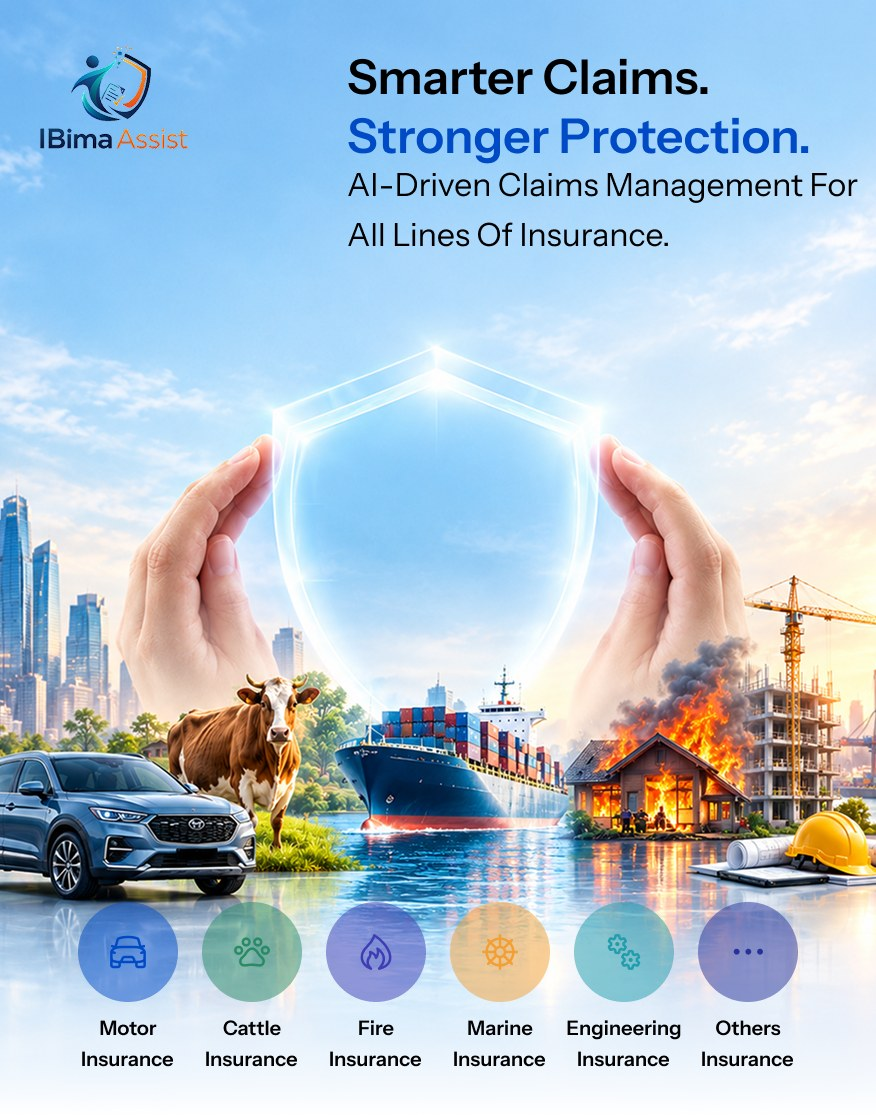
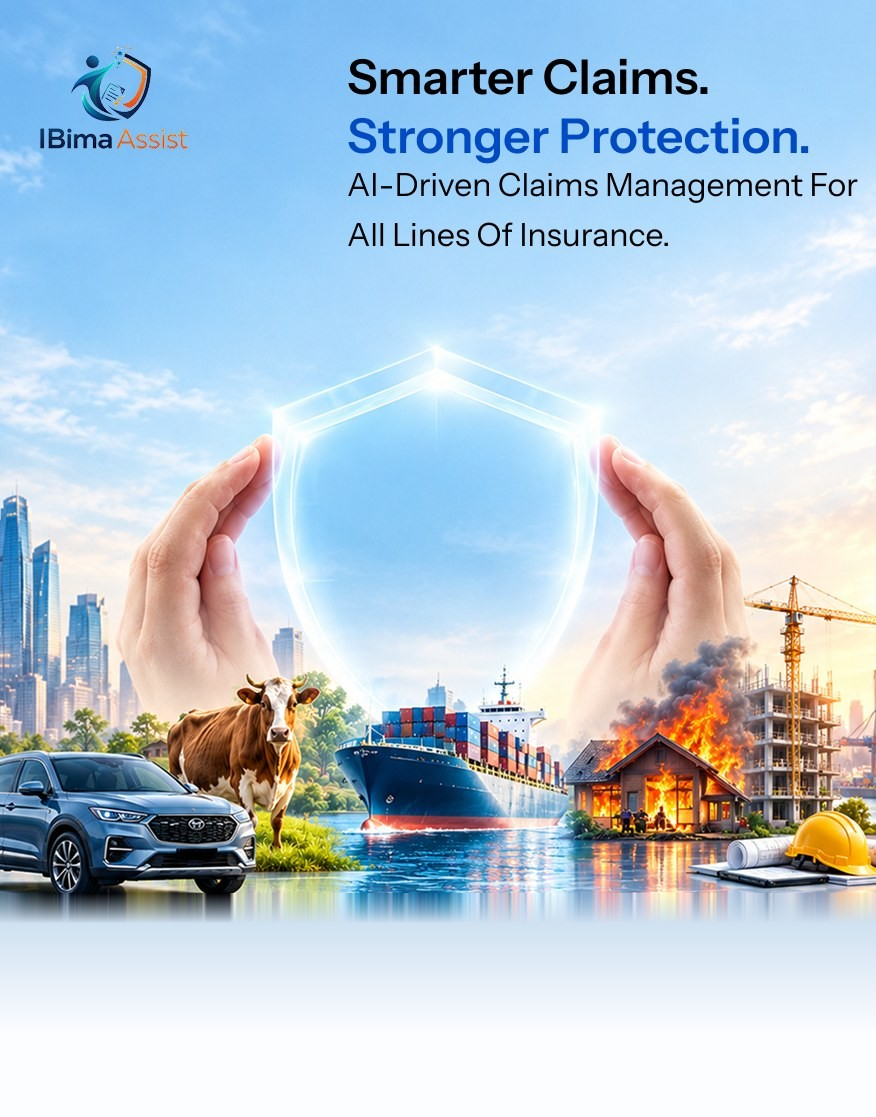
Login: coloured shield insurance badges on hero, filled inputs to match reference

Changed region(s): [[0.3699, 0.7914, 1.0, 0.974], [0.0, 0.7914, 0.339, 0.974]]

diff --git a/src/pages/auth/LoginPage.jsx b/src/pages/auth/LoginPage.jsx
@@ -1,7 +1,7 @@
 import React, { useState } from 'react';
 import { useNavigate } from 'react-router-dom';
 import { Input, Button, App } from 'antd';
-import { MailOutlined, LockOutlined, ReloadOutlined } from '@ant-design/icons';
+import { MailOutlined, LockOutlined, ReloadOutlined, CarOutlined, FireOutlined, SettingOutlined, EllipsisOutlined } from '@ant-design/icons';
 import loginImage from '../../assets/images/loginHero.jpg';
 import ibimaLogo from '../../assets/images/ibimaLogo.svg';
 import { COLORS } from '../../constants/theme';
@@ -14,6 +14,52 @@ const generateCaptcha = (length = 5) =>
 
 const EMAIL_RE = /^[^\s@]+@[^\s@]+\.[^\s@]+$/;
 const MOBILE_RE = /^(\+91[\s-]?)?[6-9]\d{9}$/;
+
+const CowIcon = () => (
+    <svg viewBox="0 0 24 24" width="1em" height="1em" fill="none" stroke="currentColor" strokeWidth="1.8" strokeLinecap="round" strokeLinejoin="round">
+        <path d="M5 5c-1.5 0-3 1-3 2.5S3.5 9 5 9M19 5c1.5 0 3 1 3 2.5S20.5 9 19 9" />
+        <path d="M7 6.5C7 5 9 4 12 4s5 1 5 2.5V13c0 1-.4 1.8-1 2.4V17a3 3 0 0 1-3 3h-2a3 3 0 0 1-3-3v-1.6c-.6-.6-1-1.4-1-2.4z" />
+        <circle cx="10.5" cy="17" r=".6" fill="currentColor" />
+        <circle cx="13.5" cy="17" r=".6" fill="currentColor" />
+        <circle cx="9.5" cy="10" r=".8" fill="currentColor" />
+        <circle cx="14.5" cy="10" r=".8" fill="currentColor" />
+    </svg>
+);
+
+const ShipIcon = () => (
+    <svg viewBox="0 0 24 24" width="1em" height="1em" fill="none" stroke="currentColor" strokeWidth="1.8" strokeLinecap="round" strokeLinejoin="round">
+        <path d="M12 3v4M8 7h8l1 5H7z" />
+        <path d="M3 13h18l-2.5 5.5a2 2 0 0 1-1.8 1.2H7.3a2 2 0 0 1-1.8-1.2z" />
+        <path d="M2 21.5c1.5 0 1.5-.8 3-.8s1.5.8 3 .8 1.5-.8 3-.8 1.5.8 3 .8 1.5-.8 3-.8 1.5.8 3 .8" />
+    </svg>
+);
+
+const HERO_RATIO = 876 / 1117; // loginHero.jpg natural width / height
+
+// Bottom-of-hero insurance lines (shield badges, as in the reference design).
+const INSURANCE_LINES = [
+    { label: 'Motor', icon: <CarOutlined />, from: '#2F5BEA', to: '#0B2E9E' },
+    { label: 'Cattle', icon: <CowIcon />, from: '#34A853', to: '#12702F' },
+    { label: 'Fire', icon: <FireOutlined />, from: '#9B5CF0', to: '#5B21B6' },
+    { label: 'Marine', icon: <ShipIcon />, from: '#FDB022', to: '#E27A06' },
+    { label: 'Engineering', icon: <SettingOutlined />, from: '#1BA8C4', to: '#0B6E8A' },
+    { label: 'Others', icon: <EllipsisOutlined />, from: '#5A5FF0', to: '#2E2FA8' },
+];
+
+const ShieldBadge = ({ icon, from, to, id }) => (
+    <div className="relative drop-shadow-md" style={{ width: '9cqw', height: '10.3cqw' }}>
+        <svg viewBox="0 0 56 64" className="absolute inset-0 w-full h-full" aria-hidden="true">
+            <defs>
+                <linearGradient id={id} x1="0" y1="0" x2="0" y2="1">
+                    <stop offset="0" stopColor={from} />
+                    <stop offset="1" stopColor={to} />
+                </linearGradient>
+            </defs>
+            <path d="M28 1.5 53 10v20c0 16-11 27-25 32.5C14 57 3 46 3 30V10z" fill={`url(#${id})`} stroke="#fff" strokeOpacity=".55" strokeWidth="1.5" />
+        </svg>
+        <span className="absolute inset-0 flex items-center justify-center text-white" style={{ fontSize: '4cqw', paddingBottom: '0.8cqw' }}>{icon}</span>
+    </div>
+);
 
 const Label = ({ children, extra }) => (
     <div className="flex items-center justify-between mb-1.5">
@@ -62,8 +108,28 @@ const LoginPage = () => {
 
     return (
         <div className="min-h-screen flex bg-white">
-            <div className="hidden lg:block lg:w-1/2 relative overflow-hidden">
-                <img src={loginImage} alt="Smarter Claims. Stronger Protection." className="absolute inset-0 w-full h-full object-cover object-top" />
+            {/* Hero behaves like object-cover/object-top, but the wrapper keeps the
+                image's own aspect ratio (headline never gets clipped). The shield row is
+                pinned to the panel bottom and sized off the panel width (cqw). */}
+            <div className="hidden lg:block lg:w-1/2 relative overflow-hidden bg-white" style={{ containerType: 'size' }}>
+                <div
+                    className="absolute top-0 left-1/2 -translate-x-1/2"
+                    style={{ width: `max(100cqw, calc(100cqh * ${HERO_RATIO}))`, aspectRatio: HERO_RATIO }}
+                >
+                    <img src={loginImage} alt="Smarter Claims. Stronger Protection." className="absolute inset-0 w-full h-full" />
+                </div>
+                <div className="absolute inset-x-0 bottom-0" style={{ padding: '6cqw 0 3.5cqw', background: 'linear-gradient(to bottom, rgba(248,251,254,0) 0%, rgba(248,251,254,.75) 45%, rgba(248,251,254,.9) 100%)' }}>
+                    <ul className="grid grid-cols-6 w-full list-none m-0" style={{ padding: '0 7.5cqw' }}>
+                        {INSURANCE_LINES.map((l) => (
+                            <li key={l.label} className="flex flex-col items-center text-center">
+                                <ShieldBadge id={`shield-${l.label}`} icon={l.icon} from={l.from} to={l.to} />
+                                <span className="font-semibold" style={{ marginTop: '1.2cqw', fontSize: '2.25cqw', lineHeight: 1.45, color: COLORS.textPrimary }}>
+                                    {l.label}<br />Insurance
+                                </span>
+                            </li>
+                        ))}
+                    </ul>
+                </div>
             </div>
 
             <div className="w-full lg:w-1/2 flex items-center justify-center px-5 py-10">
@@ -88,7 +154,7 @@ const LoginPage = () => {
                                 onChange={(e) => setIdentifier(e.target.value)}
                                 placeholder="Enter Email Address"
                                 autoComplete="username"
-                                style={{ height: 40 }}
+                                variant="filled" style={{ height: 44, border: `1px solid ${COLORS.border}` }}
                             />
                         </div>
 
@@ -107,7 +173,7 @@ const LoginPage = () => {
                                 onChange={(e) => setPassword(e.target.value)}
                                 placeholder="Enter Password"
                                 autoComplete="current-password"
-                                style={{ height: 40 }}
+                                variant="filled" style={{ height: 44, border: `1px solid ${COLORS.border}` }}
                             />
                         </div>
 
@@ -119,11 +185,11 @@ const LoginPage = () => {
                                 <ReloadOutlined />
                             </button>
                         </div>
-                        <Input value={captchaInput} onChange={(e) => setCaptchaInput(e.target.value)} placeholder="Enter the captcha above" aria-label="Captcha" style={{ height: 40 }} />
+                        <Input value={captchaInput} onChange={(e) => setCaptchaInput(e.target.value)} aria-label="Captcha" variant="filled" style={{ height: 44, border: `1px solid ${COLORS.border}` }} />
 
                         {error && <p role="alert" className="text-xs m-0" style={{ color: COLORS.danger }}>{error}</p>}
 
-                        <Button type="primary" htmlType="submit" block loading={loading} style={{ height: 42, fontSize: 15, fontWeight: 600 }}>Sign In</Button>
+                        <Button type="primary" htmlType="submit" block loading={loading} style={{ height: 42, fontSize: 15, fontWeight: 600, background: '#0B3FC4' }}>Sign In</Button>
                     </form>
 
                     <div className="mt-8 text-[11px] leading-relaxed" style={{ color: COLORS.textPrimary }}>
